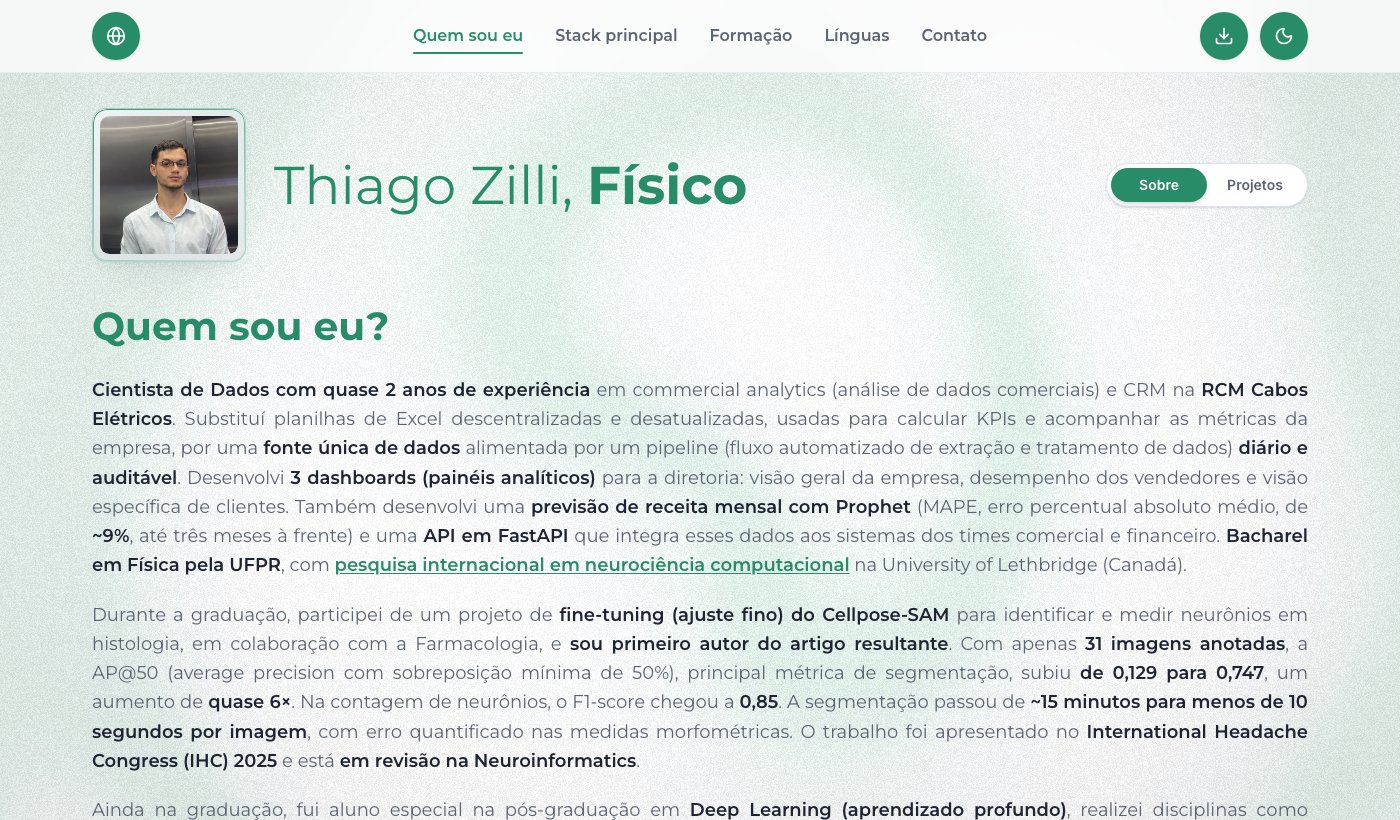
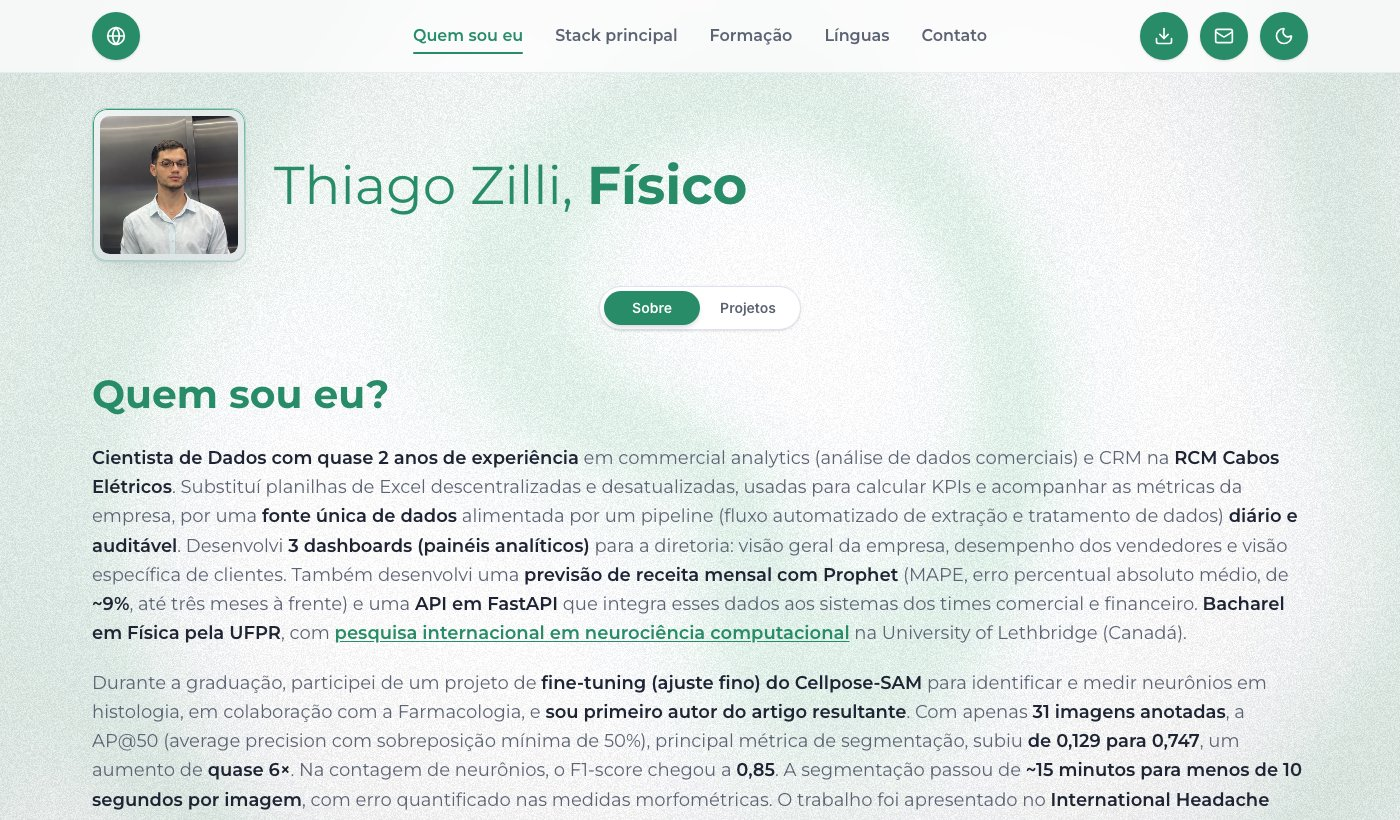
feat: centred section switch, contact links under Quem sou eu, easier dark-mode reading, new portfolio cover

diff --git a/site/src/components/Hero.tsx b/site/src/components/Hero.tsx
@@ -9,14 +9,14 @@ interface HeroProps {
   onSectionChange: (section: Section) => void
 }
 
-// Portrait and name on 8 columns, the Sobre/Projetos switch on the last 4 (stacked
-// on small screens): one row keeps the panel below it above the fold.
+// Portrait and name across the grid, then the Sobre/Projetos switch on its own row,
+// centred on the page (on one row the name would run into the middle).
 export function Hero({ section, onSectionChange }: HeroProps) {
   const { t } = useI18n()
 
   return (
     <section className={cn(PAGE_GRID, 'items-center gap-y-6 pt-[clamp(1.25rem,2.5vw,2.5rem)]')}>
-      <div className="col-span-12 flex items-center gap-[clamp(0.75rem,2vw,2rem)] lg:col-span-8">
+      <div className="col-span-12 flex items-center gap-[clamp(0.75rem,2vw,2rem)]">
         <PortraitFrame alt={t('hero.portraitAlt')} />
 
         <h1 className="text-[clamp(1.75rem,3.8vw,4rem)] leading-tight text-brand">
@@ -29,7 +29,7 @@ export function Hero({ section, onSectionChange }: HeroProps) {
         onChange={onSectionChange}
         labels={{ about: t('nav.about'), projects: t('nav.projects') }}
         ariaLabel={t('nav.label')}
-        className="col-span-12 flex justify-center lg:col-span-4 lg:justify-end"
+        className="col-span-12 flex justify-center"
       />
     </section>
   )

diff --git a/site/src/components/About.tsx b/site/src/components/About.tsx
@@ -79,16 +79,20 @@ export function About({ panel, enter }: AboutProps) {
         {titles[panel]}
       </h2>
 
-      {/* One column across the full 12-column width. */}
-      {panel === 'whoAmI' &&
-        whoAmI.paragraphs.map((paragraph) => (
-          <p
-            key={paragraph.slice(0, 24)}
-            className="col-span-12 text-base leading-relaxed text-muted-foreground md:text-justify xl:text-lg"
-          >
-            <RichText text={paragraph} />
-          </p>
-        ))}
+      {/* One column across the full width, left-aligned: justifying opened uneven gaps between words. */}
+      {panel === 'whoAmI' && (
+        <>
+          {whoAmI.paragraphs.map((paragraph) => (
+            <p key={paragraph.slice(0, 24)} className="reading-text col-span-12 text-base leading-relaxed text-muted-foreground xl:text-lg">
+              <RichText text={paragraph} />
+            </p>
+          ))}
+          {/* The contact links right after the introduction, as in Contato. */}
+          <div className="col-span-12 mt-4">
+            <SocialLinks />
+          </div>
+        </>
+      )}
 
       {panel === 'stack' && (
         <ul className={subgrid}>

diff --git a/site/src/index.css b/site/src/index.css
@@ -368,3 +368,14 @@
     0 0 10px color-mix(in oklab, var(--brand) 80%, transparent),
     0 1px 2px color-mix(in oklab, var(--brand) 70%, transparent);
 }
+
+/*
+ * Long reading text (Quem sou eu) in dark mode: a lighter grey, closer to the bold
+ * white, and the platform's default smoothing, since "antialiased" thins light
+ * letters on a dark background.
+ */
+.dark .reading-text {
+  color: #c8cedb;
+  -webkit-font-smoothing: auto;
+  -moz-osx-font-smoothing: auto;
+}
